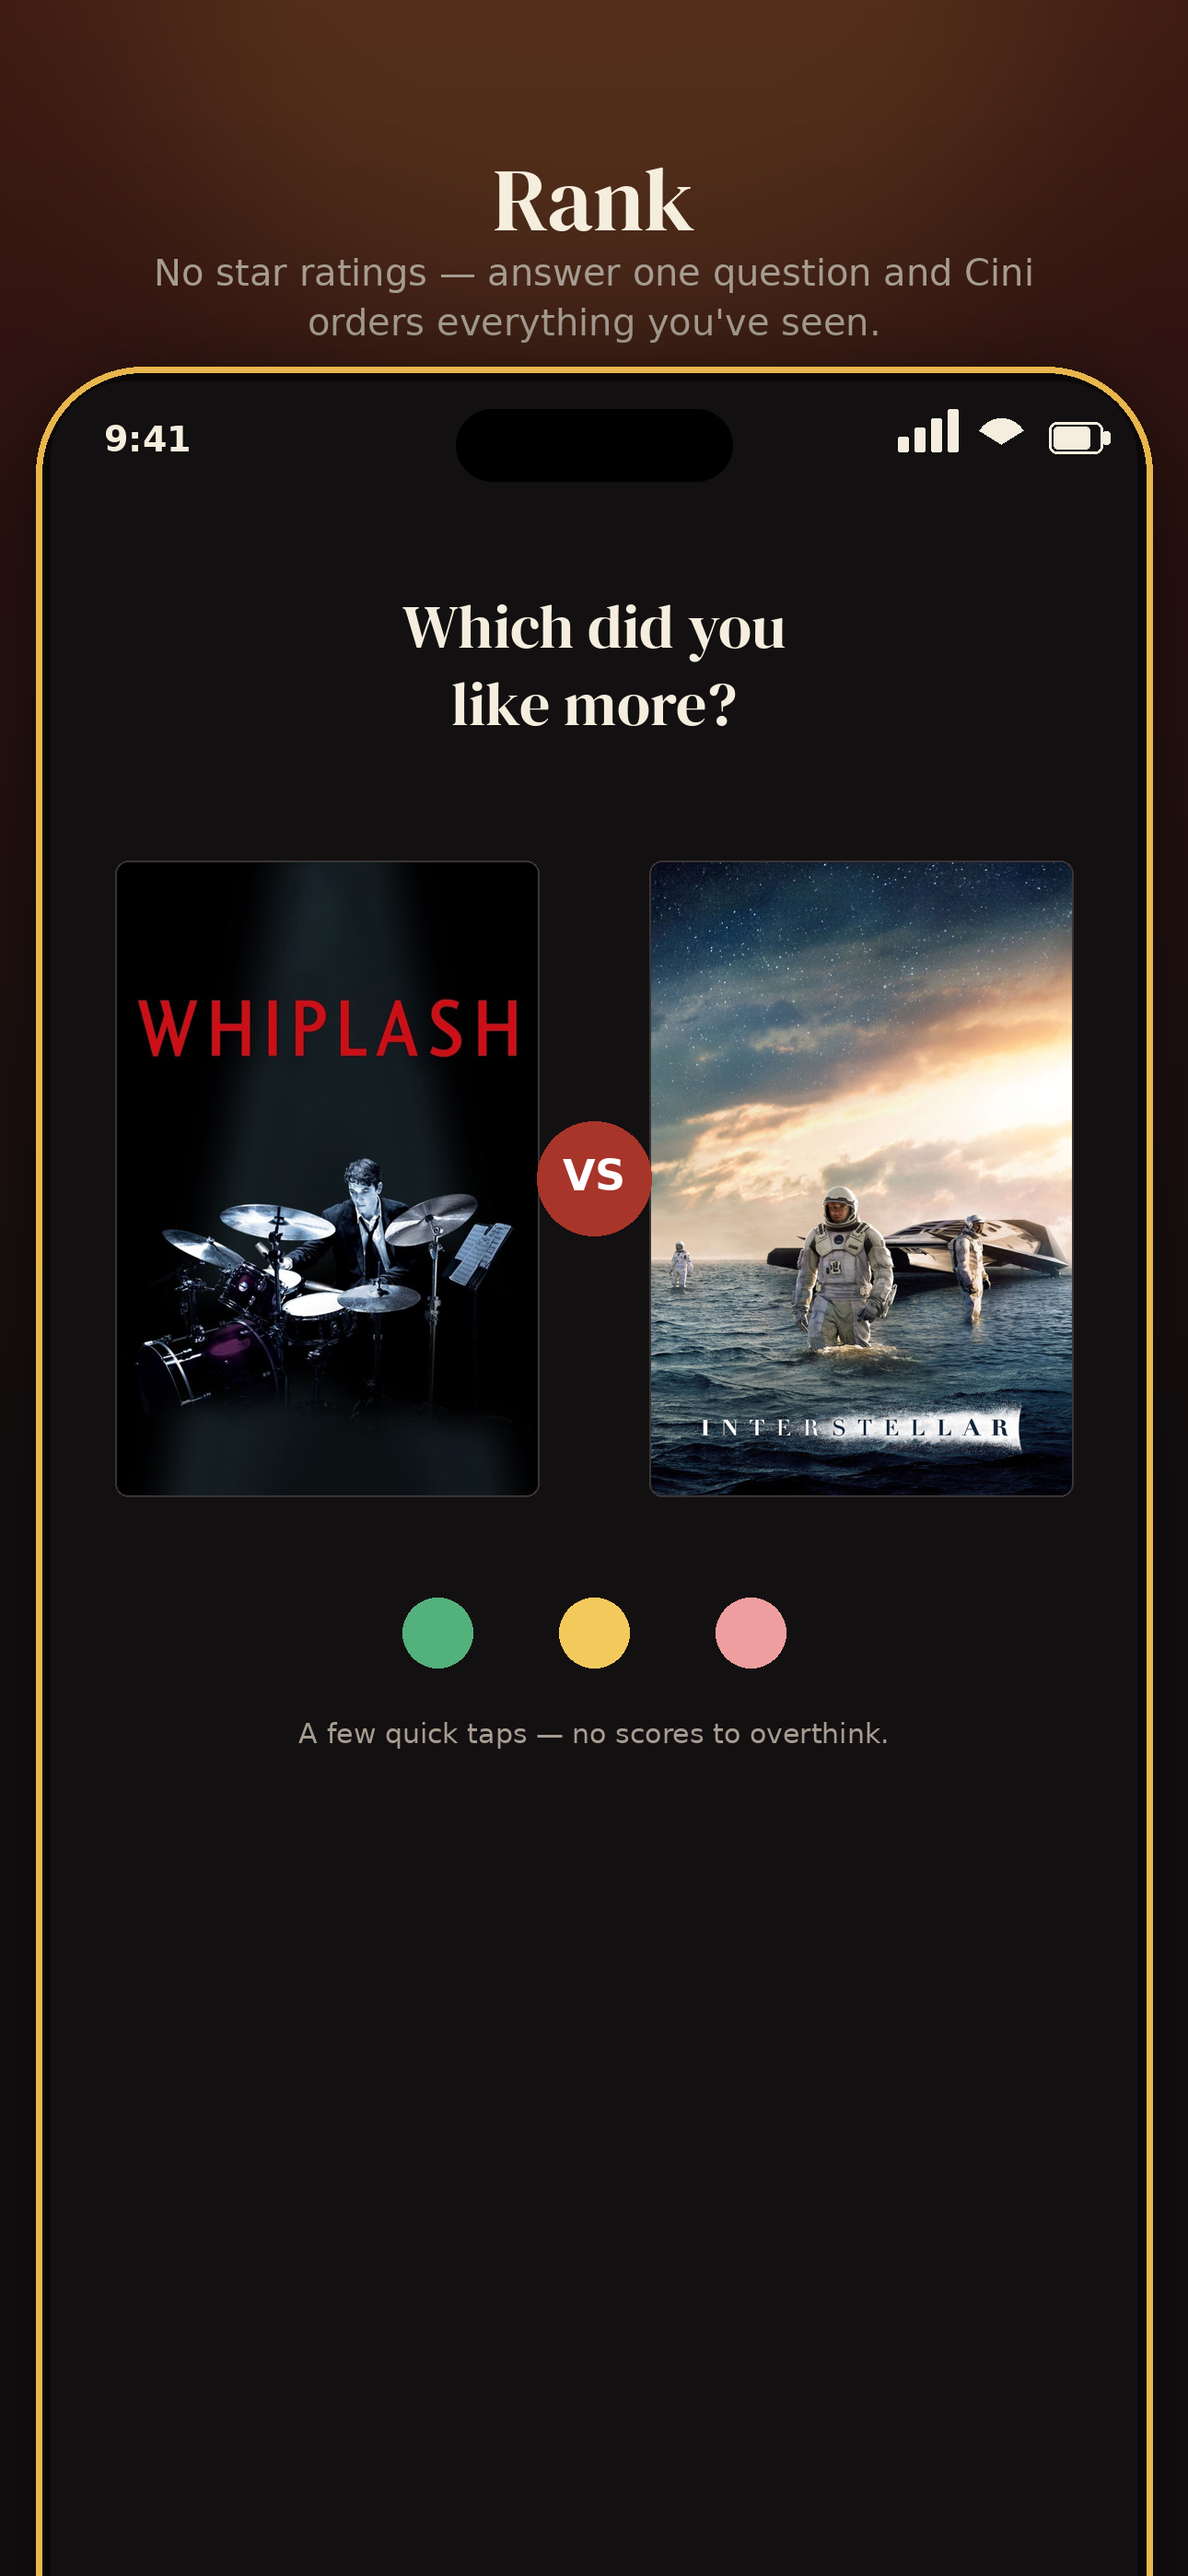
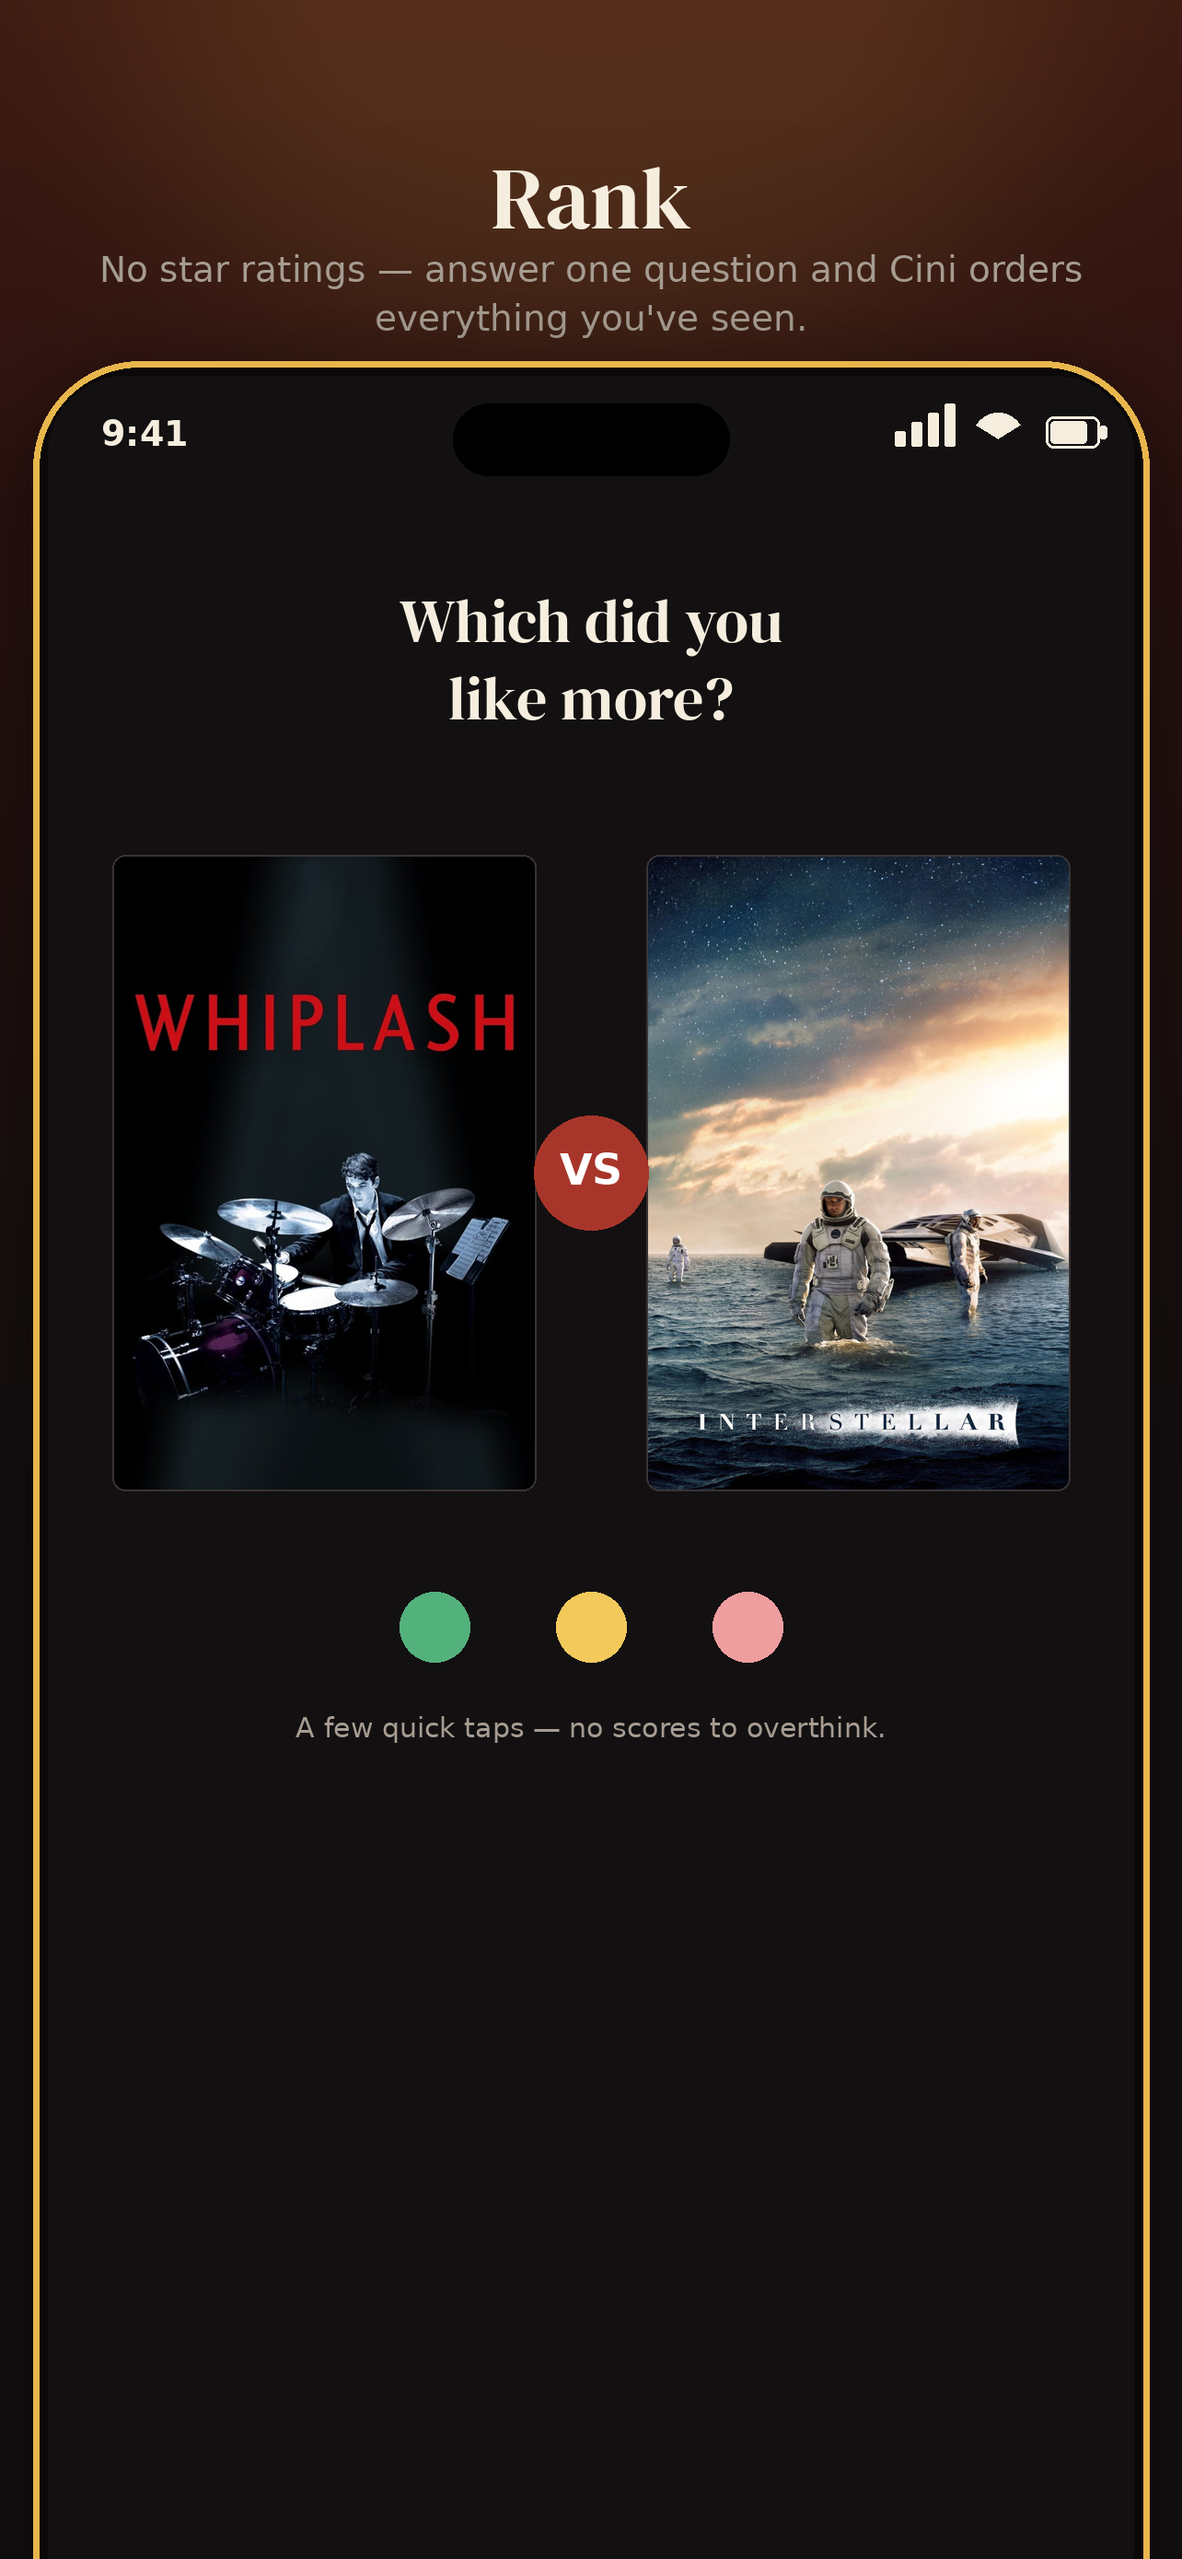
Screenshots: iPhone set to 1284x2778 (6.7" App Store size)

diff --git a/docs/appstore/generate.py b/docs/appstore/generate.py
@@ -343,7 +343,7 @@ def render_all(device):
     global W, H, DEVICE, ISLAND, BASE
     DEVICE = device
     if device == "iphone":
-        W, H, ISLAND = 1290, 2796, True       # 6.7" iPhone
+        W, H, ISLAND = 1284, 2778, True       # 6.7" iPhone (App Store size)
     else:
         W, H, ISLAND = 2048, 2732, False      # 12.9" iPad
     out = os.path.join(OUT, device)
